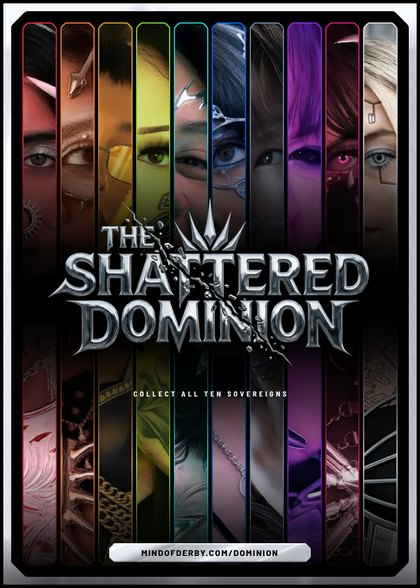
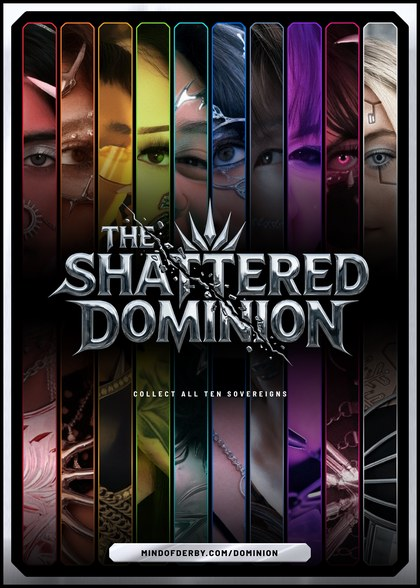
Use print eye strips everywhere; frame Banshee iris and Jade glasses; rebake card back
Claude-Session: https://claude.ai/code/session_01XqBoTDZG36PsB1FtNjsWYS

Changed region(s): [[0.1238, 0.0306, 0.3405, 0.398], [0.1238, 0.6429, 0.3405, 0.949], [0.2786, 0.0306, 0.3405, 0.0918]]

diff --git a/book/index.html b/book/index.html
@@ -84,7 +84,7 @@ footer img{width:54px}
 @media (max-width:860px){.book,.split{grid-template-columns:1fr;gap:32px}.steps{grid-template-columns:1fr}}
 @media (max-width:640px){.book img{aspect-ratio:1/1.02;object-fit:cover;object-position:50% 64%}.book{gap:20px}.fan{aspect-ratio:auto;display:grid;grid-template-columns:repeat(4,1fr);gap:8px;margin-top:24px}.fc,.fc.back{position:static;width:100%;transform:none!important}.fc.back{order:-1}.grid{grid-template-columns:1fr}.specs{grid-template-columns:1fr 1fr}.sov .nm{font-size:26px}.hero p.lede{font-size:15px;line-height:23px}.btn{height:50px;font-size:13px;padding:0 22px}.btn.ghost span{padding:0 20px}}
 </style></head><body>
-<header class="hero"><div class="strips" aria-hidden="true"><div class="s" style="--c:#E62A3F"><div style="background-image:url(../assets/eyes/eye-01.jpg)"></div></div><div class="s" style="--c:#F47934"><div style="background-image:url(../assets/eyes/eye-02.jpg)"></div></div><div class="s" style="--c:#DF9E2B"><div style="background-image:url(../assets/eyes/eye-03.jpg)"></div></div><div class="s" style="--c:#84D83E"><div style="background-image:url(../assets/eyes/eye-04.jpg)"></div></div><div class="s" style="--c:#2DD0DB"><div style="background-image:url(../assets/eyes/eye-05.jpg)"></div></div><div class="s" style="--c:#0568D8"><div style="background-image:url(../assets/eyes/eye-06.jpg)"></div></div><div class="s" style="--c:#6A86AD"><div style="background-image:url(../assets/eyes/eye-07.jpg)"></div></div><div class="s" style="--c:#8C2CD9"><div style="background-image:url(../assets/eyes/eye-08.jpg)"></div></div><div class="s" style="--c:#D81B79"><div style="background-image:url(../assets/eyes/eye-09b.jpg)"></div></div><div class="s" style="--c:#E0E2E4"><div style="background-image:url(../assets/eyes/eye-10.jpg)"></div></div></div>
+<header class="hero"><div class="strips" aria-hidden="true"><div class="s" style="--c:#E62A3F"><div style="background-image:url(../assets/eyes/eyeR-01.jpg)"></div></div><div class="s" style="--c:#F47934"><div style="background-image:url(../assets/eyes/eyeR-02.jpg);background-position-x:100%"></div></div><div class="s" style="--c:#DF9E2B"><div style="background-image:url(../assets/eyes/eyeR-03.jpg);background-position-x:100%"></div></div><div class="s" style="--c:#84D83E"><div style="background-image:url(../assets/eyes/eyeR-04.jpg)"></div></div><div class="s" style="--c:#2DD0DB"><div style="background-image:url(../assets/eyes/eyeR-05b.jpg)"></div></div><div class="s" style="--c:#0568D8"><div style="background-image:url(../assets/eyes/eye-06.jpg)"></div></div><div class="s" style="--c:#6A86AD"><div style="background-image:url(../assets/eyes/eye-07.jpg)"></div></div><div class="s" style="--c:#8C2CD9"><div style="background-image:url(../assets/eyes/eye-08.jpg)"></div></div><div class="s" style="--c:#D81B79"><div style="background-image:url(../assets/eyes/eye-09b.jpg)"></div></div><div class="s" style="--c:#E0E2E4"><div style="background-image:url(../assets/eyes/eye-10.jpg)"></div></div></div>
 <div class="in wrap">
 <img class="logo" src="../assets/logo-cover.webp" alt="The Shattered Dominion" width="1160" height="648">
 <span class="tag plate">TEN SOVEREIGNS. TEN REALMS.</span>

diff --git a/feature/index.html b/feature/index.html
@@ -47,7 +47,7 @@ p{margin:0;max-width:470px;font-size:clamp(15px,1.45cqw,19px);line-height:1.5;fo
 @media (prefers-reduced-motion:reduce){.s{animation:none;transform:none}}
 </style></head><body>
 <div class="card">
- <div class="strips" aria-hidden="true"><div class="s" style="--c:#E62A3F"><div style="background-image:url(../assets/eyes/eye-01.jpg)"></div></div><div class="s" style="--c:#F47934"><div style="background-image:url(../assets/eyes/eye-02.jpg)"></div></div><div class="s" style="--c:#DF9E2B"><div style="background-image:url(../assets/eyes/eye-03.jpg)"></div></div><div class="s" style="--c:#84D83E"><div style="background-image:url(../assets/eyes/eye-04.jpg)"></div></div><div class="s" style="--c:#2DD0DB"><div style="background-image:url(../assets/eyes/eye-05.jpg)"></div></div><div class="s" style="--c:#0568D8"><div style="background-image:url(../assets/eyes/eye-06.jpg)"></div></div><div class="s" style="--c:#6A86AD"><div style="background-image:url(../assets/eyes/eye-07.jpg)"></div></div><div class="s" style="--c:#8C2CD9"><div style="background-image:url(../assets/eyes/eye-08.jpg)"></div></div><div class="s" style="--c:#D81B79"><div style="background-image:url(../assets/eyes/eye-09b.jpg)"></div></div><div class="s" style="--c:#E0E2E4"><div style="background-image:url(../assets/eyes/eye-10.jpg)"></div></div></div>
+ <div class="strips" aria-hidden="true"><div class="s" style="--c:#E62A3F"><div style="background-image:url(../assets/eyes/eyeR-01.jpg)"></div></div><div class="s" style="--c:#F47934"><div style="background-image:url(../assets/eyes/eyeR-02.jpg);background-position-x:100%"></div></div><div class="s" style="--c:#DF9E2B"><div style="background-image:url(../assets/eyes/eyeR-03.jpg);background-position-x:100%"></div></div><div class="s" style="--c:#84D83E"><div style="background-image:url(../assets/eyes/eyeR-04.jpg)"></div></div><div class="s" style="--c:#2DD0DB"><div style="background-image:url(../assets/eyes/eyeR-05b.jpg)"></div></div><div class="s" style="--c:#0568D8"><div style="background-image:url(../assets/eyes/eye-06.jpg)"></div></div><div class="s" style="--c:#6A86AD"><div style="background-image:url(../assets/eyes/eye-07.jpg)"></div></div><div class="s" style="--c:#8C2CD9"><div style="background-image:url(../assets/eyes/eye-08.jpg)"></div></div><div class="s" style="--c:#D81B79"><div style="background-image:url(../assets/eyes/eye-09b.jpg)"></div></div><div class="s" style="--c:#E0E2E4"><div style="background-image:url(../assets/eyes/eye-10.jpg)"></div></div></div>
  <div class="fade"></div>
  <div class="in">
   <span class="eb"><i></i>Featured project</span>

diff --git a/scan/index.html b/scan/index.html
@@ -12,7 +12,7 @@
 <meta name="twitter:card" content="summary_large_image"><meta name="twitter:image" content="https://mindofderby.github.io/dominion-ar/og/home.jpg">
 <meta name="apple-mobile-web-app-status-bar-style" content="black"><style>html{background:#000}</style>
 <link rel="preconnect" href="https://fonts.googleapis.com"><link rel="preconnect" href="https://fonts.gstatic.com" crossorigin><link rel="stylesheet" href="https://fonts.googleapis.com/css2?family=Barlow:wght@400;500;700;800&family=Barlow+Semi+Condensed:wght@700&family=Cinzel:wght@900&display=swap">
-<link rel="stylesheet" href="app.css?v=fe7ac737">
+<link rel="stylesheet" href="app.css?v=c009f78f">
 </head><body class="mode-fit">
 <div id="stage"><div style="width: 390px; height: 844px; position: relative; overflow: hidden; background: #000000; font-family: 'Barlow', sans-serif">
   <div style="position: absolute; left: 0; top: 0; width: 390px; height: 844px; background: transparent; display: flex; align-items: flex-start; justify-content: center">
@@ -48,5 +48,5 @@ IDS.forEach((id,i)=>{const a=m.addAnchor(i);a.onTargetFound=()=>{try{m.stop();}c
 const {renderer,scene,camera}=m;
 m.start().then(()=>{renderer.setAnimationLoop(()=>renderer.render(scene,camera)); const rs=()=>{try{m.resize();}catch(e){}}; addEventListener('stagefit',rs); setTimeout(rs,50); setTimeout(rs,600);}).catch(e=>{const h=[...document.querySelectorAll('#stage p')].find(p=>p.textContent.indexOf('Hold steady')===0); if(h) h.textContent='Camera blocked. Allow camera access in your browser settings, or choose a realm below.';});
 </script>
-<script src="stage.js?v=fe7ac737"></script>
+<script src="stage.js?v=c009f78f"></script>
 </body></html>

diff --git a/stage.js b/stage.js
@@ -48,7 +48,7 @@ css.textContent='#bd{position:fixed;inset:0;z-index:0;overflow:hidden;pointer-ev
 document.head.appendChild(css);
 var bd=document.createElement('div');bd.id='bd';
 if(id){bd.innerHTML='<div class="img" style="background-image:url(k/'+id+'/plate.webp)"></div>';}
-else{var e=['01','02','03','04','05','06','07','08','09b','10'],h='';for(var i=0;i<10;i++)h+='<div style="background-image:url(assets/eyes/eye-'+e[i]+'.jpg)"></div>';bd.innerHTML='<div class="strips">'+h+'</div>';}
+else{var e=['R-01','R-02','R-03','R-04','R-05b','-06','-07','-08','-09b','-10'],h='';for(var i=0;i<10;i++)h+='<div style="background-image:url(assets/eyes/eye'+e[i]+'.jpg)'+(i==1||i==2?';background-position-x:100%':'')+'"></div>';bd.innerHTML='<div class="strips">'+h+'</div>';}
 b.insertBefore(bd,b.firstChild);
 var dp=document.createElement('div');dp.id='dp';
 dp.innerHTML='<div class="eb">Best on your phone</div><h2>'+(id?'Scan to enter<br>this realm':'Scan to step<br>inside')+'</h2><p>'+(id?'Point your phone camera at this code. Her realm opens in your browser and moves as you tilt. No app needed.':'Point your phone camera at this code, then aim it at any Sovereign page in the book. No app needed.')+'</p><div class="q"><div><img alt="QR code" src="assets/qr/ar'+(id?'-'+id:'')+'.svg"></div></div><br><a href="https://www.mindofderby.com/dominion">About the book</a>';

diff --git a/index.html b/index.html
@@ -12,7 +12,7 @@
 <meta name="twitter:card" content="summary_large_image"><meta name="twitter:image" content="https://mindofderby.github.io/dominion-ar/og/home.jpg">
 <meta name="apple-mobile-web-app-status-bar-style" content="black"><style>html{background:#000}</style>
 <link rel="preconnect" href="https://fonts.googleapis.com"><link rel="preconnect" href="https://fonts.gstatic.com" crossorigin><link rel="stylesheet" href="https://fonts.googleapis.com/css2?family=Barlow:wght@400;500;700;800&family=Barlow+Semi+Condensed:wght@700&family=Cinzel:wght@900&display=swap">
-<link rel="stylesheet" href="app.css?v=fe7ac737">
+<link rel="stylesheet" href="app.css?v=c009f78f">
 </head><body class="mode-scroll">
 <div id="stage"><div style="width: 390px; height: 844px; position: relative; overflow: hidden; background: #000000; font-family: 'Barlow', sans-serif">
   <div style="position: absolute; left: 30px; top: 18px; width: 330px; display: flex; flex-direction: column; align-items: center; gap: 14px; text-align: center">
@@ -129,5 +129,5 @@
 </div>
 </div>
 
-<script src="stage.js?v=fe7ac737"></script>
+<script src="stage.js?v=c009f78f"></script>
 </body></html>

diff --git a/01/index.html b/01/index.html
@@ -12,7 +12,7 @@
 <meta name="twitter:card" content="summary_large_image"><meta name="twitter:image" content="https://mindofderby.github.io/dominion-ar/og/01.jpg">
 <meta name="apple-mobile-web-app-status-bar-style" content="black"><style>html{background:#000}</style>
 <link rel="preconnect" href="https://fonts.googleapis.com"><link rel="preconnect" href="https://fonts.gstatic.com" crossorigin><link rel="stylesheet" href="https://fonts.googleapis.com/css2?family=Barlow:wght@400;500;700;800&family=Barlow+Semi+Condensed:wght@700&family=Cinzel:wght@900&display=swap">
-<link rel="stylesheet" href="app.css?v=fe7ac737">
+<link rel="stylesheet" href="app.css?v=c009f78f">
 </head><body class="mode-fill">
 <div id="stage"><div style="width: 390px; height: 844px; position: relative; overflow: hidden; background: #000000; font-family: 'Barlow', sans-serif">
   
@@ -160,5 +160,5 @@ renderer.setAnimationLoop(now => {
   window.__dbg = { yaw, pitch, tYaw, t, S, cz: cam.position.z };
 });
 </script>
-<script src="stage.js?v=fe7ac737"></script>
+<script src="stage.js?v=c009f78f"></script>
 </body></html>

diff --git a/02/index.html b/02/index.html
@@ -12,7 +12,7 @@
 <meta name="twitter:card" content="summary_large_image"><meta name="twitter:image" content="https://mindofderby.github.io/dominion-ar/og/02.jpg">
 <meta name="apple-mobile-web-app-status-bar-style" content="black"><style>html{background:#000}</style>
 <link rel="preconnect" href="https://fonts.googleapis.com"><link rel="preconnect" href="https://fonts.gstatic.com" crossorigin><link rel="stylesheet" href="https://fonts.googleapis.com/css2?family=Barlow:wght@400;500;700;800&family=Barlow+Semi+Condensed:wght@700&family=Cinzel:wght@900&display=swap">
-<link rel="stylesheet" href="app.css?v=fe7ac737">
+<link rel="stylesheet" href="app.css?v=c009f78f">
 </head><body class="mode-fill">
 <div id="stage"><div style="width: 390px; height: 844px; position: relative; overflow: hidden; background: #000000; font-family: 'Barlow', sans-serif">
   
@@ -160,5 +160,5 @@ renderer.setAnimationLoop(now => {
   window.__dbg = { yaw, pitch, tYaw, t, S, cz: cam.position.z };
 });
 </script>
-<script src="stage.js?v=fe7ac737"></script>
+<script src="stage.js?v=c009f78f"></script>
 </body></html>

diff --git a/03/index.html b/03/index.html
@@ -12,7 +12,7 @@
 <meta name="twitter:card" content="summary_large_image"><meta name="twitter:image" content="https://mindofderby.github.io/dominion-ar/og/03.jpg">
 <meta name="apple-mobile-web-app-status-bar-style" content="black"><style>html{background:#000}</style>
 <link rel="preconnect" href="https://fonts.googleapis.com"><link rel="preconnect" href="https://fonts.gstatic.com" crossorigin><link rel="stylesheet" href="https://fonts.googleapis.com/css2?family=Barlow:wght@400;500;700;800&family=Barlow+Semi+Condensed:wght@700&family=Cinzel:wght@900&display=swap">
-<link rel="stylesheet" href="app.css?v=fe7ac737">
+<link rel="stylesheet" href="app.css?v=c009f78f">
 </head><body class="mode-fill">
 <div id="stage"><div style="width: 390px; height: 844px; position: relative; overflow: hidden; background: #000000; font-family: 'Barlow', sans-serif">
   
@@ -160,5 +160,5 @@ renderer.setAnimationLoop(now => {
   window.__dbg = { yaw, pitch, tYaw, t, S, cz: cam.position.z };
 });
 </script>
-<script src="stage.js?v=fe7ac737"></script>
+<script src="stage.js?v=c009f78f"></script>
 </body></html>

diff --git a/04/index.html b/04/index.html
@@ -12,7 +12,7 @@
 <meta name="twitter:card" content="summary_large_image"><meta name="twitter:image" content="https://mindofderby.github.io/dominion-ar/og/04.jpg">
 <meta name="apple-mobile-web-app-status-bar-style" content="black"><style>html{background:#000}</style>
 <link rel="preconnect" href="https://fonts.googleapis.com"><link rel="preconnect" href="https://fonts.gstatic.com" crossorigin><link rel="stylesheet" href="https://fonts.googleapis.com/css2?family=Barlow:wght@400;500;700;800&family=Barlow+Semi+Condensed:wght@700&family=Cinzel:wght@900&display=swap">
-<link rel="stylesheet" href="app.css?v=fe7ac737">
+<link rel="stylesheet" href="app.css?v=c009f78f">
 </head><body class="mode-fill">
 <div id="stage"><div style="width: 390px; height: 844px; position: relative; overflow: hidden; background: #000000; font-family: 'Barlow', sans-serif">
   
@@ -160,5 +160,5 @@ renderer.setAnimationLoop(now => {
   window.__dbg = { yaw, pitch, tYaw, t, S, cz: cam.position.z };
 });
 </script>
-<script src="stage.js?v=fe7ac737"></script>
+<script src="stage.js?v=c009f78f"></script>
 </body></html>

diff --git a/05/index.html b/05/index.html
@@ -12,7 +12,7 @@
 <meta name="twitter:card" content="summary_large_image"><meta name="twitter:image" content="https://mindofderby.github.io/dominion-ar/og/05.jpg">
 <meta name="apple-mobile-web-app-status-bar-style" content="black"><style>html{background:#000}</style>
 <link rel="preconnect" href="https://fonts.googleapis.com"><link rel="preconnect" href="https://fonts.gstatic.com" crossorigin><link rel="stylesheet" href="https://fonts.googleapis.com/css2?family=Barlow:wght@400;500;700;800&family=Barlow+Semi+Condensed:wght@700&family=Cinzel:wght@900&display=swap">
-<link rel="stylesheet" href="app.css?v=fe7ac737">
+<link rel="stylesheet" href="app.css?v=c009f78f">
 </head><body class="mode-fill">
 <div id="stage"><div style="width: 390px; height: 844px; position: relative; overflow: hidden; background: #000000; font-family: 'Barlow', sans-serif">
   
@@ -160,5 +160,5 @@ renderer.setAnimationLoop(now => {
   window.__dbg = { yaw, pitch, tYaw, t, S, cz: cam.position.z };
 });
 </script>
-<script src="stage.js?v=fe7ac737"></script>
+<script src="stage.js?v=c009f78f"></script>
 </body></html>

diff --git a/06/index.html b/06/index.html
@@ -12,7 +12,7 @@
 <meta name="twitter:card" content="summary_large_image"><meta name="twitter:image" content="https://mindofderby.github.io/dominion-ar/og/06.jpg">
 <meta name="apple-mobile-web-app-status-bar-style" content="black"><style>html{background:#000}</style>
 <link rel="preconnect" href="https://fonts.googleapis.com"><link rel="preconnect" href="https://fonts.gstatic.com" crossorigin><link rel="stylesheet" href="https://fonts.googleapis.com/css2?family=Barlow:wght@400;500;700;800&family=Barlow+Semi+Condensed:wght@700&family=Cinzel:wght@900&display=swap">
-<link rel="stylesheet" href="app.css?v=fe7ac737">
+<link rel="stylesheet" href="app.css?v=c009f78f">
 </head><body class="mode-fill">
 <div id="stage"><div style="width: 390px; height: 844px; position: relative; overflow: hidden; background: #000000; font-family: 'Barlow', sans-serif">
   
@@ -160,5 +160,5 @@ renderer.setAnimationLoop(now => {
   window.__dbg = { yaw, pitch, tYaw, t, S, cz: cam.position.z };
 });
 </script>
-<script src="stage.js?v=fe7ac737"></script>
+<script src="stage.js?v=c009f78f"></script>
 </body></html>

diff --git a/07/index.html b/07/index.html
@@ -12,7 +12,7 @@
 <meta name="twitter:card" content="summary_large_image"><meta name="twitter:image" content="https://mindofderby.github.io/dominion-ar/og/07.jpg">
 <meta name="apple-mobile-web-app-status-bar-style" content="black"><style>html{background:#000}</style>
 <link rel="preconnect" href="https://fonts.googleapis.com"><link rel="preconnect" href="https://fonts.gstatic.com" crossorigin><link rel="stylesheet" href="https://fonts.googleapis.com/css2?family=Barlow:wght@400;500;700;800&family=Barlow+Semi+Condensed:wght@700&family=Cinzel:wght@900&display=swap">
-<link rel="stylesheet" href="app.css?v=fe7ac737">
+<link rel="stylesheet" href="app.css?v=c009f78f">
 </head><body class="mode-fill">
 <div id="stage"><div style="width: 390px; height: 844px; position: relative; overflow: hidden; background: #000000; font-family: 'Barlow', sans-serif">
   
@@ -160,5 +160,5 @@ renderer.setAnimationLoop(now => {
   window.__dbg = { yaw, pitch, tYaw, t, S, cz: cam.position.z };
 });
 </script>
-<script src="stage.js?v=fe7ac737"></script>
+<script src="stage.js?v=c009f78f"></script>
 </body></html>
